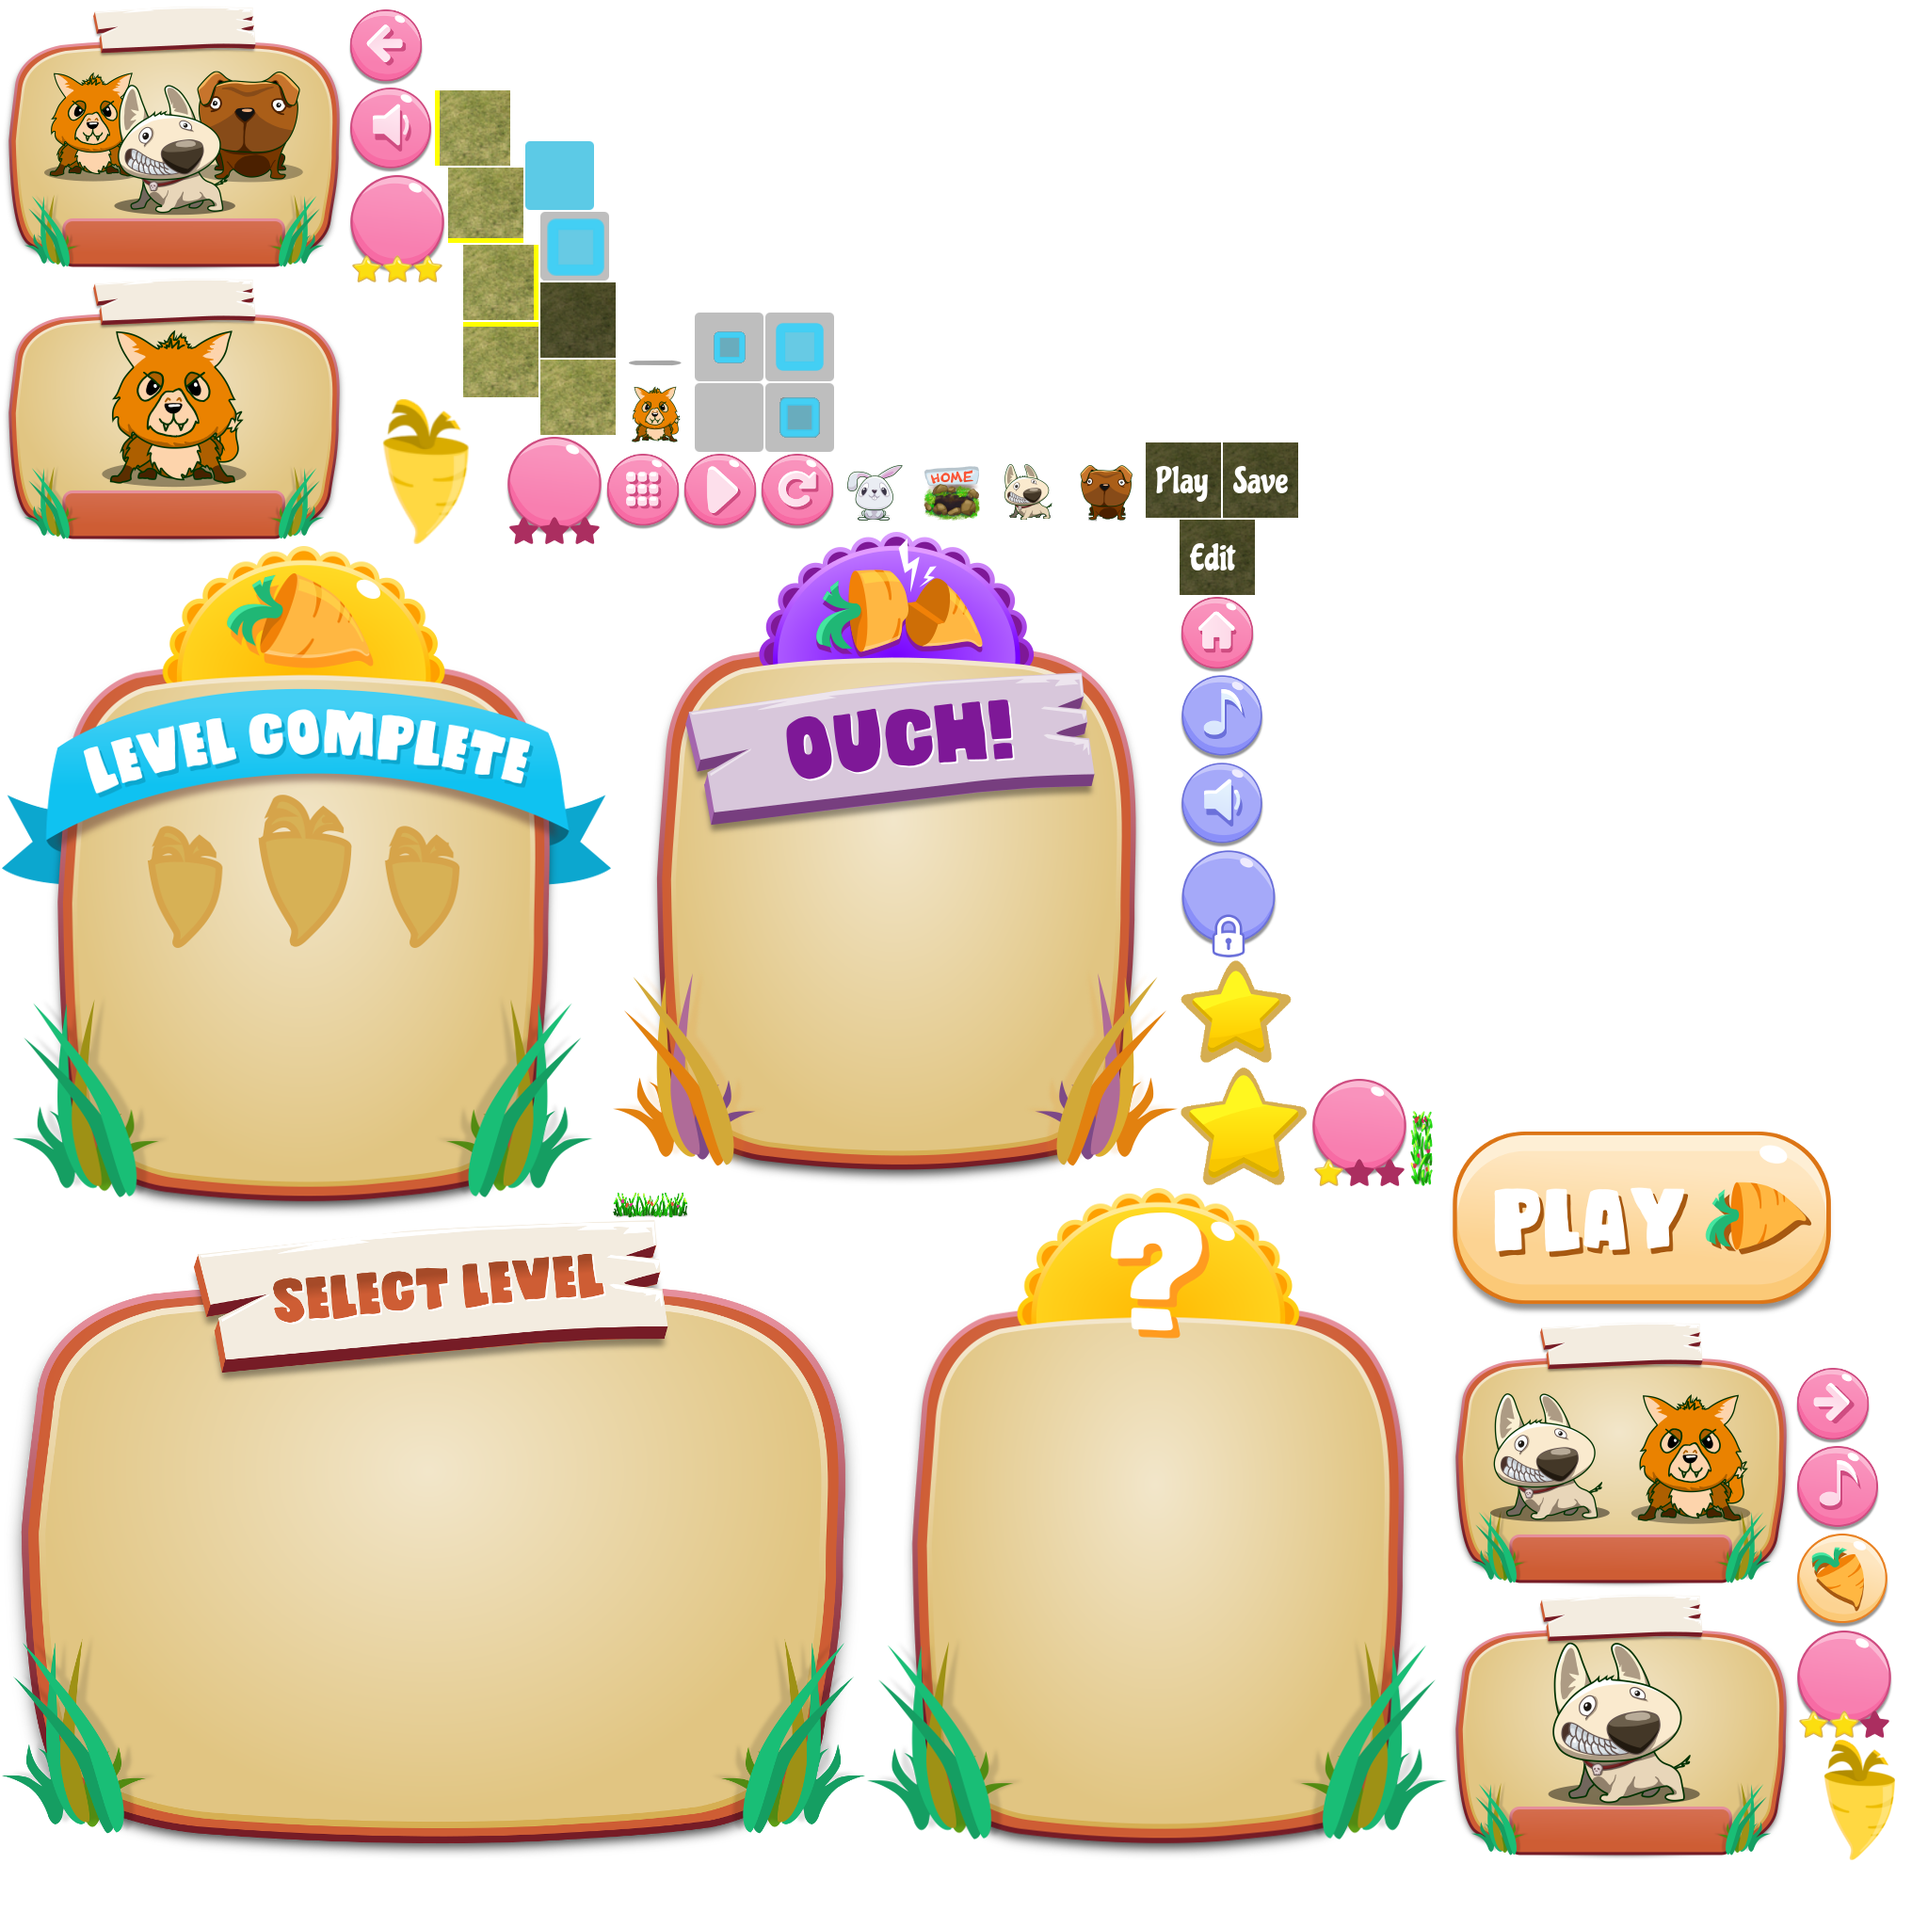
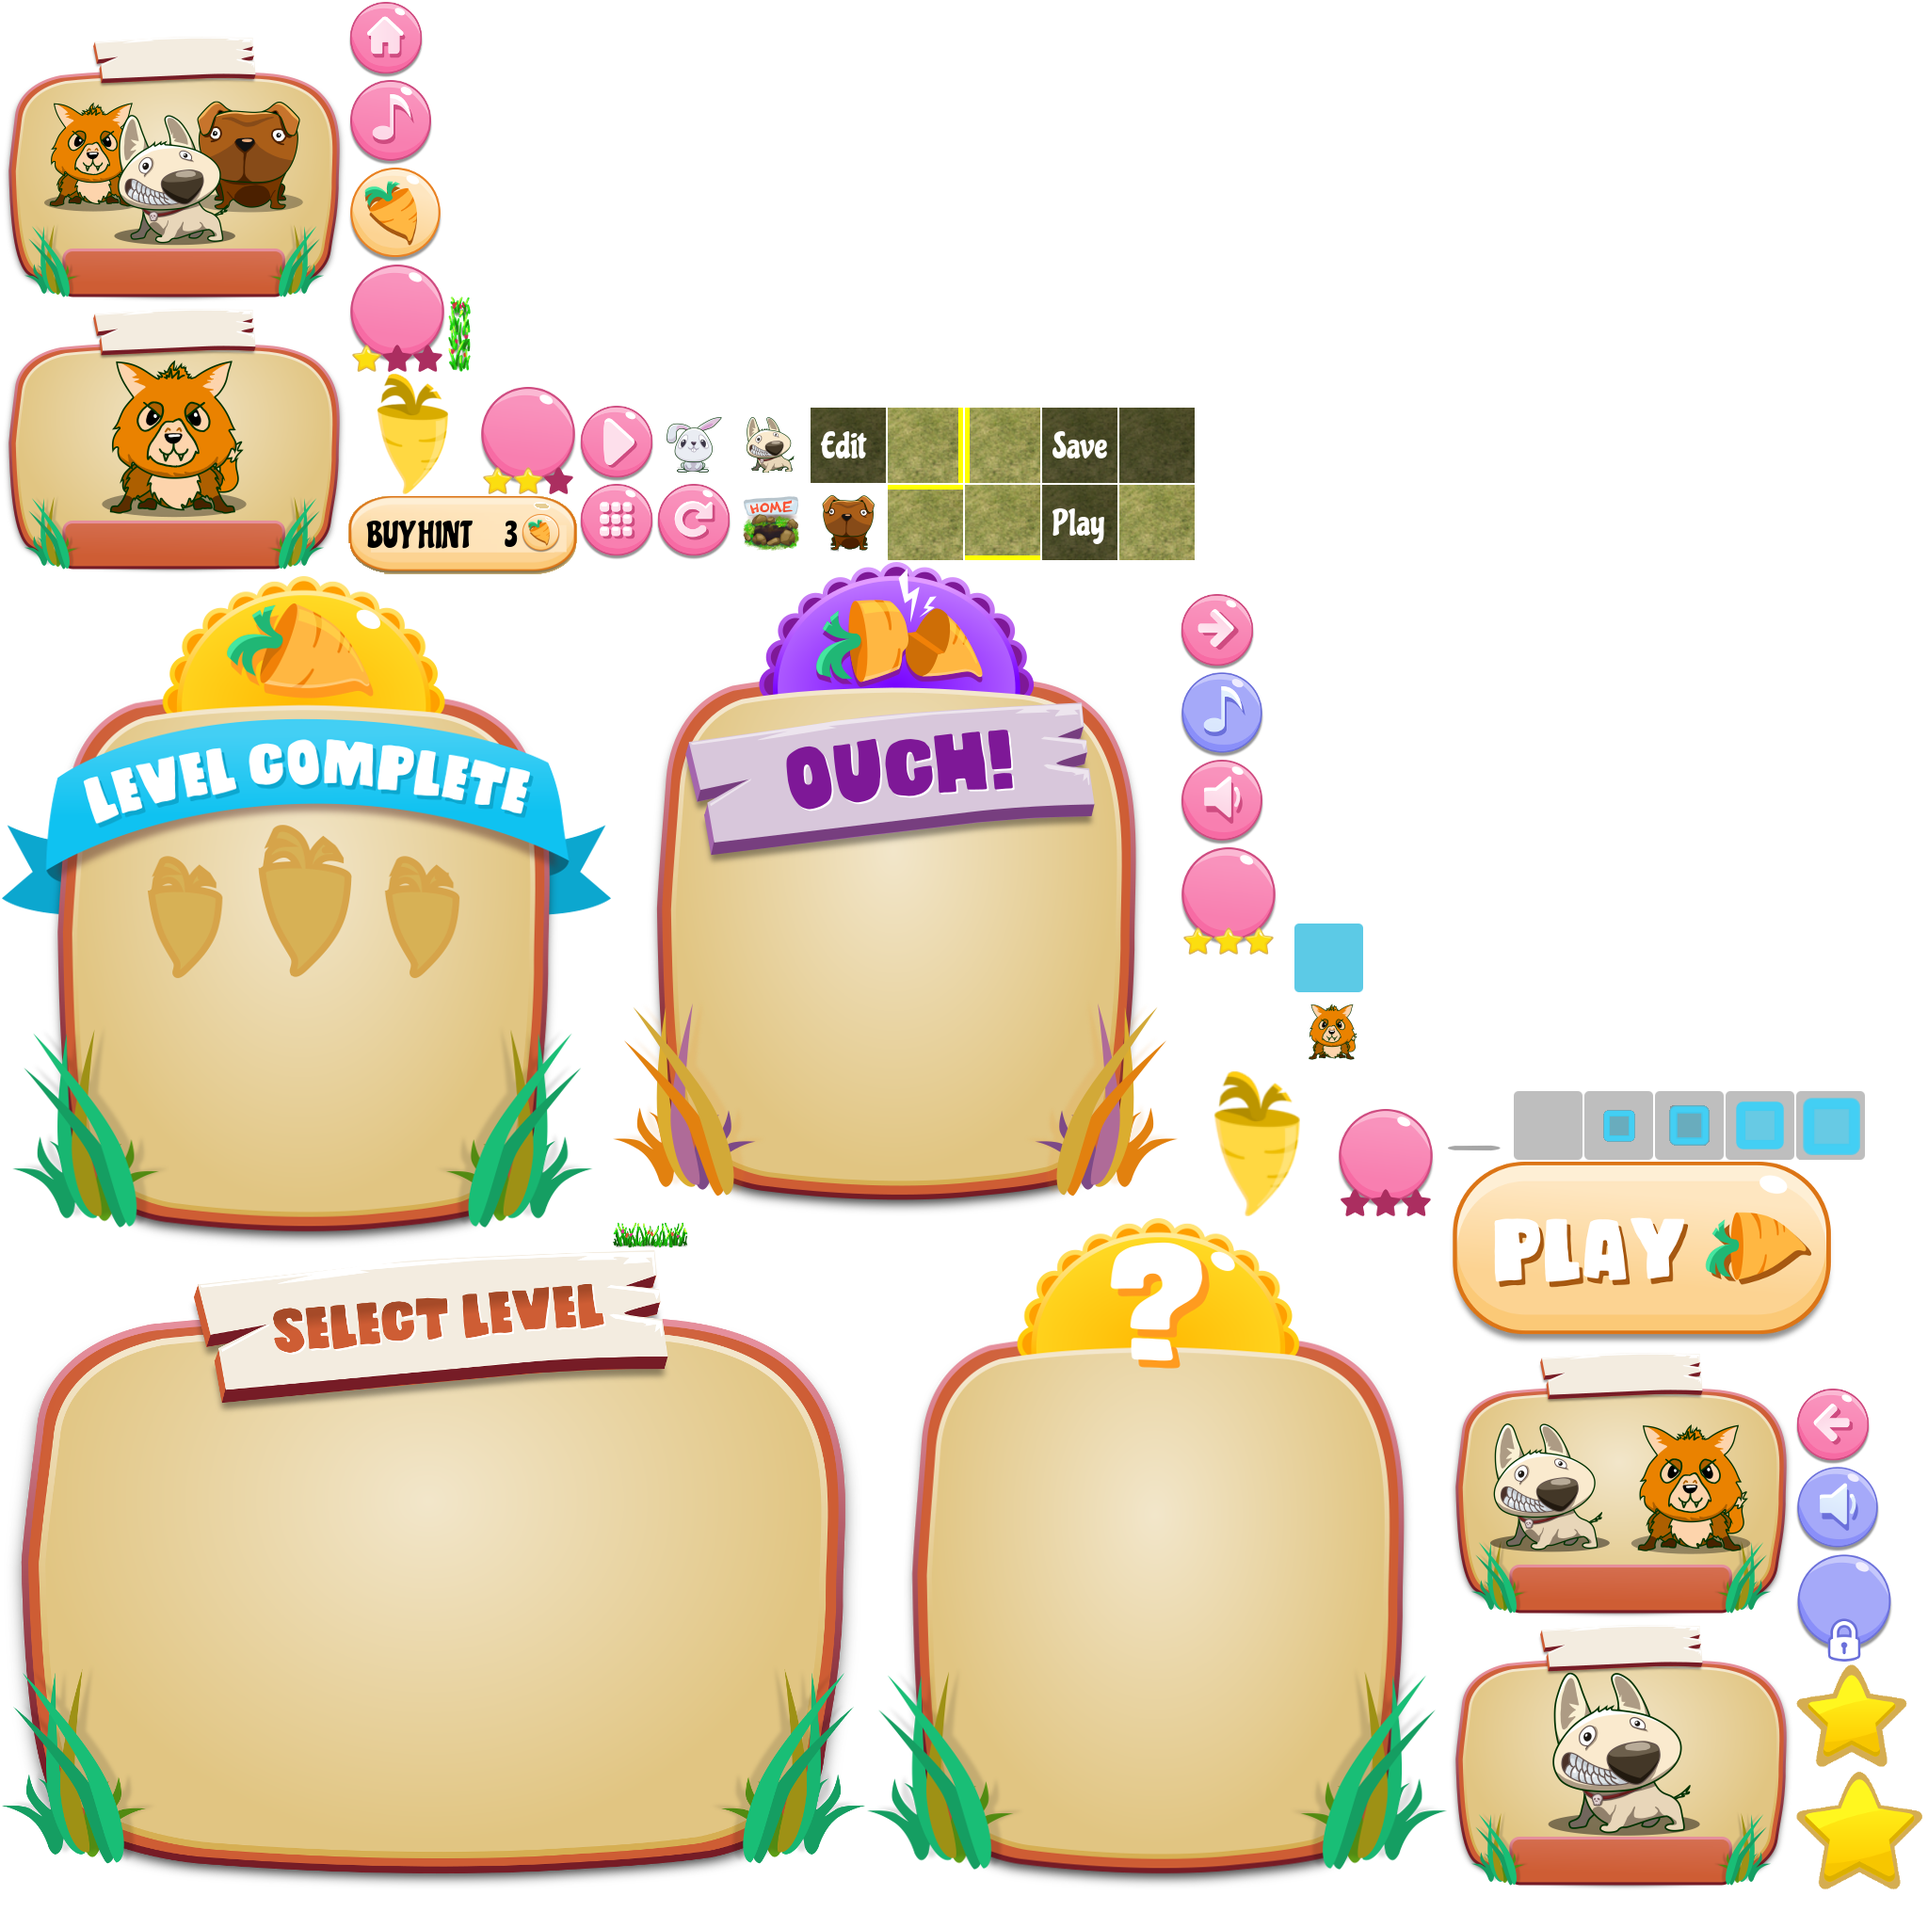
Buy hints

Changed region(s): [[0.0, 0.0, 1.0, 1.0]]

diff --git a/core/src/es/seastorm/merlin/screens/labyrint/LabyrintScreenController.java b/core/src/es/seastorm/merlin/screens/labyrint/LabyrintScreenController.java
@@ -23,6 +23,7 @@ import es.seastorm.merlin.cache.Cache;
 import es.seastorm.merlin.gameobjects.Animal;
 import es.seastorm.merlin.gameobjects.Box;
 import es.seastorm.merlin.screens.labyrint.help.HelpItem;
+import es.seastorm.merlin.screens.labyrint.help.InfoWindow;
 import es.seastorm.merlin.screens.labyrint.logic.Engine2;
 import es.seastorm.merlin.screens.labyrint.logic.Labyrinth;
 import es.seastorm.merlin.screens.labyrint.logic.Square;
@@ -45,6 +46,7 @@ public class LabyrintScreenController extends Controller {
     private static int MODE_CHECK_END = 9;
     private static int MODE_EDIT = 10;
     private static int MODE_HELP = 11;
+    private static int MODE_INFO = 12;
 
     private long lastTouch = 0;
     private Vector2 lastPointTouch = new Vector2();
@@ -62,7 +64,7 @@ public class LabyrintScreenController extends Controller {
     Array<SimpleGameObject> wallsH;
     Array<SimpleGameObject> wallsV;
     Array<HelpItem> helpItems;
-    SimpleGameObject btnHint;
+    SimpleGameObject btnHint, btnBuyHint;
 
 
     Labyrinth labyrinth;
@@ -70,6 +72,7 @@ public class LabyrintScreenController extends Controller {
     SimpleGameObject editFloor1, editFloor2, editFloor3, editFloor4, editMerlin, editBurrow, editDog, currentEdit, editEdit, editPlay, editSave;
     Array<SimpleGameObject> editButtons;
     SimpleGameObject levelComplete, levelLose, starBig, starSmall1, starSmall2, btnHome, btnLevels, btnReload, btnNext;
+    InfoWindow levelInfo;
 
     Box currentBox;
 
@@ -249,6 +252,18 @@ public class LabyrintScreenController extends Controller {
         levelLose.position.y = posMiddleY(levelLose);
         levelLose.visible = false;
         addGameObject(levelLose);
+
+        levelInfo = new InfoWindow();
+        levelInfo.position.x = posMiddleX(levelInfo);
+        levelInfo.position.y = posMiddleY(levelInfo);
+        levelInfo.visible = false;
+        addGameObject(levelInfo);
+
+        btnBuyHint = new SimpleGameObject(GameAssets.instance.getTextureRegion(GameAssets.ASSET_BTN_BUY_HINT));
+        btnBuyHint.position.x = posMiddleX(btnBuyHint);
+        btnBuyHint.position.y = 100;
+        btnBuyHint.visible = false;
+        addGameObject(btnBuyHint);
 
         starBig = new SimpleGameObject(GameAssets.instance.getTextureRegion(GameAssets.STAR_BIG));
         starBig.position.x = 557;
@@ -432,11 +447,11 @@ public class LabyrintScreenController extends Controller {
 
         if (showHelp) {
             mode = MODE_HELP;
-            Cache.backgroundBlack.visible = true;
+            //Cache.backgroundBlack.visible = true;
             Cache.backgroundHelp.visible = true;
         } else {
             mode = MODE_PLAYER;
-            Cache.backgroundBlack.visible = false;
+            //Cache.backgroundBlack.visible = false;
             Cache.backgroundHelp.visible = false;
         }
 
@@ -861,7 +876,7 @@ public class LabyrintScreenController extends Controller {
                             currentBox = (Box) object;
                             break;
                         } else if (object == btnHint) {
-                            showHint();
+                            showInfo();
                             break;
                         }
                     }
@@ -925,11 +940,54 @@ public class LabyrintScreenController extends Controller {
                     setHelpItemsInvisible();
                     mode = MODE_PLAYER;
                 }
+            } else if (mode == MODE_INFO) {
+                boolean close = true;
+                Array<AbstractGameObject> list = touchedGameObjects(x, y);
+                for (AbstractGameObject object : list) {
+                    if (object.equals(btnBuyHint)) {
+                        buyHint();
+
+                    }
+                    if (object.equals(levelInfo)) {
+                        close = false;
+                    }
+                }
+
+                if (close) {
+                    closeInfo();
+                }
 
             } else if (isEditing) {
                 touchEditing(x, y);
             }
         }
+    }
+
+    private void buyHint() {
+        int treasure = ((MerlinGame) game).getTreasure();
+        if (treasure >= 3) {
+            ((MerlinGame) game).setTreasure(treasure - 3);
+            closeInfo();
+            showHint();
+        }
+
+    }
+
+    private void showInfo() {
+        int treasure = ((MerlinGame) game).getTreasure();
+        System.out.println("Treasure: " + treasure);
+        mode = MODE_INFO;
+        Cache.backgroundBlack.visible = true;
+        levelInfo.setText(Integer.toString(treasure));
+        levelInfo.visible = true;
+        btnBuyHint.visible = true;
+    }
+
+    private void closeInfo() {
+        Cache.backgroundBlack.visible = false;
+        levelInfo.visible = false;
+        btnBuyHint.visible = false;
+        mode = MODE_PLAYER;
     }
 
     private void showHint() {

diff --git a/core/src/es/seastorm/merlin/MerlinGame.java b/core/src/es/seastorm/merlin/MerlinGame.java
@@ -60,10 +60,13 @@ public class MerlinGame extends Game {
         //this.assetManager.load("i18n/savethebunny", I18NBundle.class);
         //this.textBundle = assetManager.get("i18n/savethebunny", I18NBundle.class);
 
+        //Preferences prefs = Gdx.app.getPreferences(Constants.PREFERENCES);
+        //prefs.clear();
+        //prefs.flush();
+
 
         FileHandle baseFileHandle = Gdx.files.internal("i18n/savethebunny");
         this.textBundle = I18NBundle.createBundle(baseFileHandle);
-
 
 
         this.music = getMusic();
@@ -104,9 +107,15 @@ public class MerlinGame extends Game {
     }
 
     public void setStars(int section, int level, int stars) {
-        Preferences prefs = Gdx.app.getPreferences(Constants.PREFERENCES);
-        prefs.putInteger("stars_" + section + "_" + level, stars);
-        prefs.flush();
+        int oldStars = getStars(section, level);
+        if (oldStars < stars) {
+            Preferences prefs = Gdx.app.getPreferences(Constants.PREFERENCES);
+            prefs.putInteger("stars_" + section + "_" + level, stars);
+            prefs.flush();
+
+            int treasure = getTreasure();
+            setTreasure(treasure + stars - oldStars);
+        }
     }
 
     public int getStars(int section, int level) {
@@ -137,6 +146,18 @@ public class MerlinGame extends Game {
         prefs.putBoolean("sound", sound);
         prefs.flush();
         this.sound = sound;
+    }
+
+    public int getTreasure() {
+        Preferences prefs = Gdx.app.getPreferences(Constants.PREFERENCES);
+        int treasure = prefs.getInteger("treasure", 0);
+        return treasure;
+    }
+
+    public void setTreasure(int treasure) {
+        Preferences prefs = Gdx.app.getPreferences(Constants.PREFERENCES);
+        prefs.putInteger("treasure", treasure);
+        prefs.flush();
     }
 
 }

diff --git a/core/src/es/seastorm/merlin/screens/labyrint/help/InfoWindow.java b/core/src/es/seastorm/merlin/screens/labyrint/help/InfoWindow.java
@@ -1,0 +1,31 @@
+package es.seastorm.merlin.screens.labyrint.help;
+
+import com.badlogic.gdx.graphics.g2d.SpriteBatch;
+import com.badlogic.gdx.math.Vector2;
+
+import dragongames.base.gameobject.SimpleGameObject;
+import es.seastorm.merlin.MerlinGame;
+import es.seastorm.merlin.assets.GameAssets;
+import es.seastorm.merlin.cache.Cache;
+import es.seastorm.merlin.gameobjects.Animal;
+
+public class InfoWindow extends SimpleGameObject {
+    public String text;
+
+    public InfoWindow() {
+        super(GameAssets.instance.getTextureRegion(GameAssets.LEVEL_INFO));
+    }
+
+    public void setText(String text) {
+        this.text = text;
+    }
+
+    @Override
+    public void render(SpriteBatch batch) {
+        super.render(batch);
+
+        if (this.visible && this.text != null) {
+            Cache.font.draw(batch, text, 600, 300);
+        }
+    }
+}

diff --git a/core/src/es/seastorm/merlin/assets/GameAssets.java b/core/src/es/seastorm/merlin/assets/GameAssets.java
@@ -34,6 +34,7 @@ public class GameAssets extends AssetsKeeper {
     public static final String EDIT_EDIT = "edit_edit";
     public static final String LEVEL_COMPLETE = "level_complete";
     public static final String LEVEL_LOSE = "level_lose";
+    public static final String LEVEL_INFO = "level_info";
     public static final String STAR_SMALL = "star_small";
     public static final String STAR_BIG = "star_big";
     public static final String BTN_HOME = "btn_home";
@@ -55,6 +56,7 @@ public class GameAssets extends AssetsKeeper {
     public static final String SQUARE_GLOW4 = "square_glow4";
     public static final String SQUARE_GLOW5 = "square_glow5";
     public static final String ASSET_BTN_HINT = "btn_hint";
+    public static final String ASSET_BTN_BUY_HINT = "btn_buy_hint";
 
 
     public static final GameAssets instance = new GameAssets();
